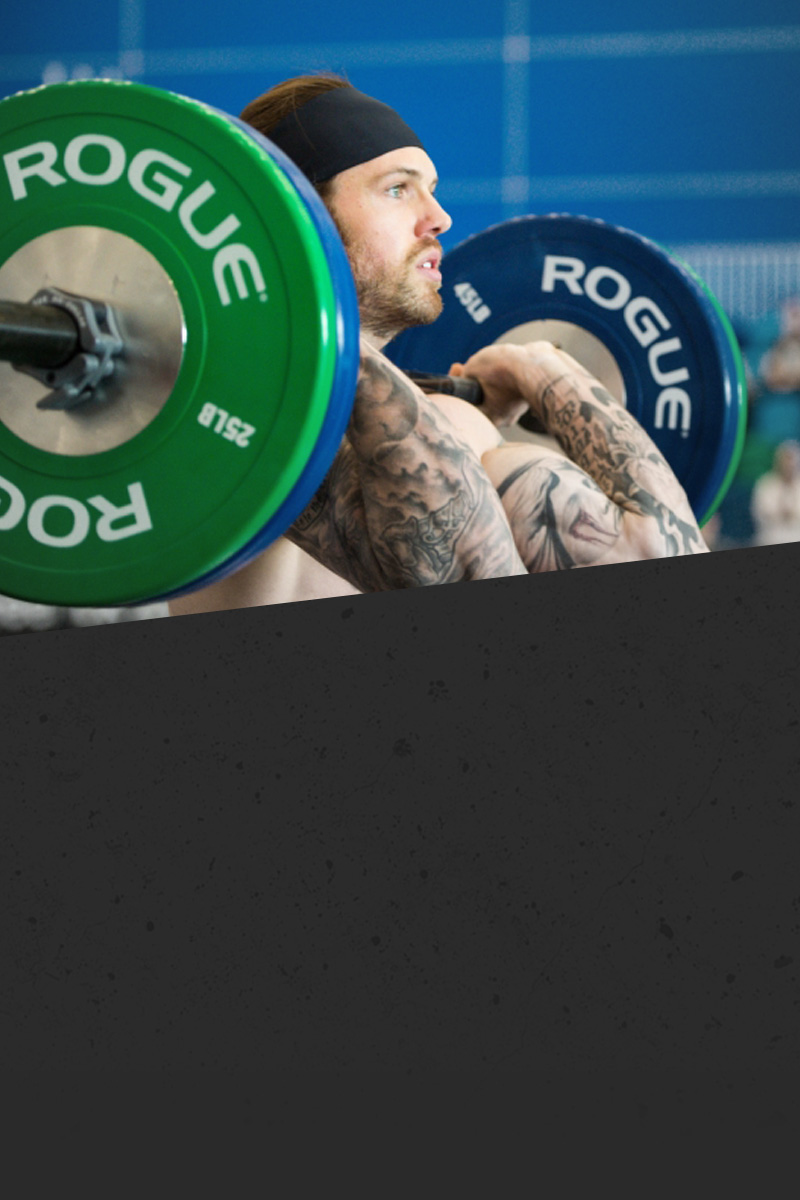
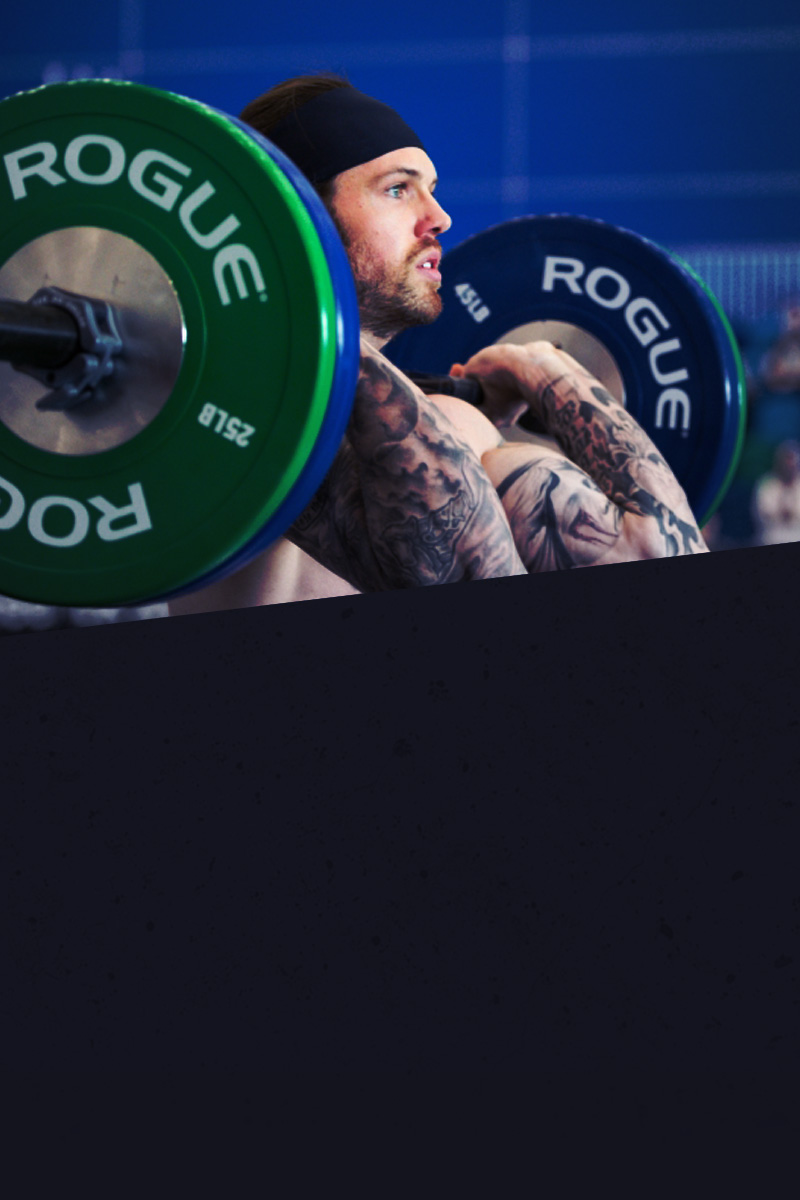
Updated image tone to match header

diff --git a/html/themes/rxwoder/scss/_common-mistake.scss b/html/themes/rxwoder/scss/_common-mistake.scss
@@ -1,7 +1,7 @@
 .CommonMistakePage {
   background-size: 100%;
   background-position: center top;
-  background-color: #2a2a2a;
+  background-color: #13141e;
   background-image: image_url('dave-bg-mobile.jpg');
   padding-top: 60%;
   background-repeat: no-repeat;
